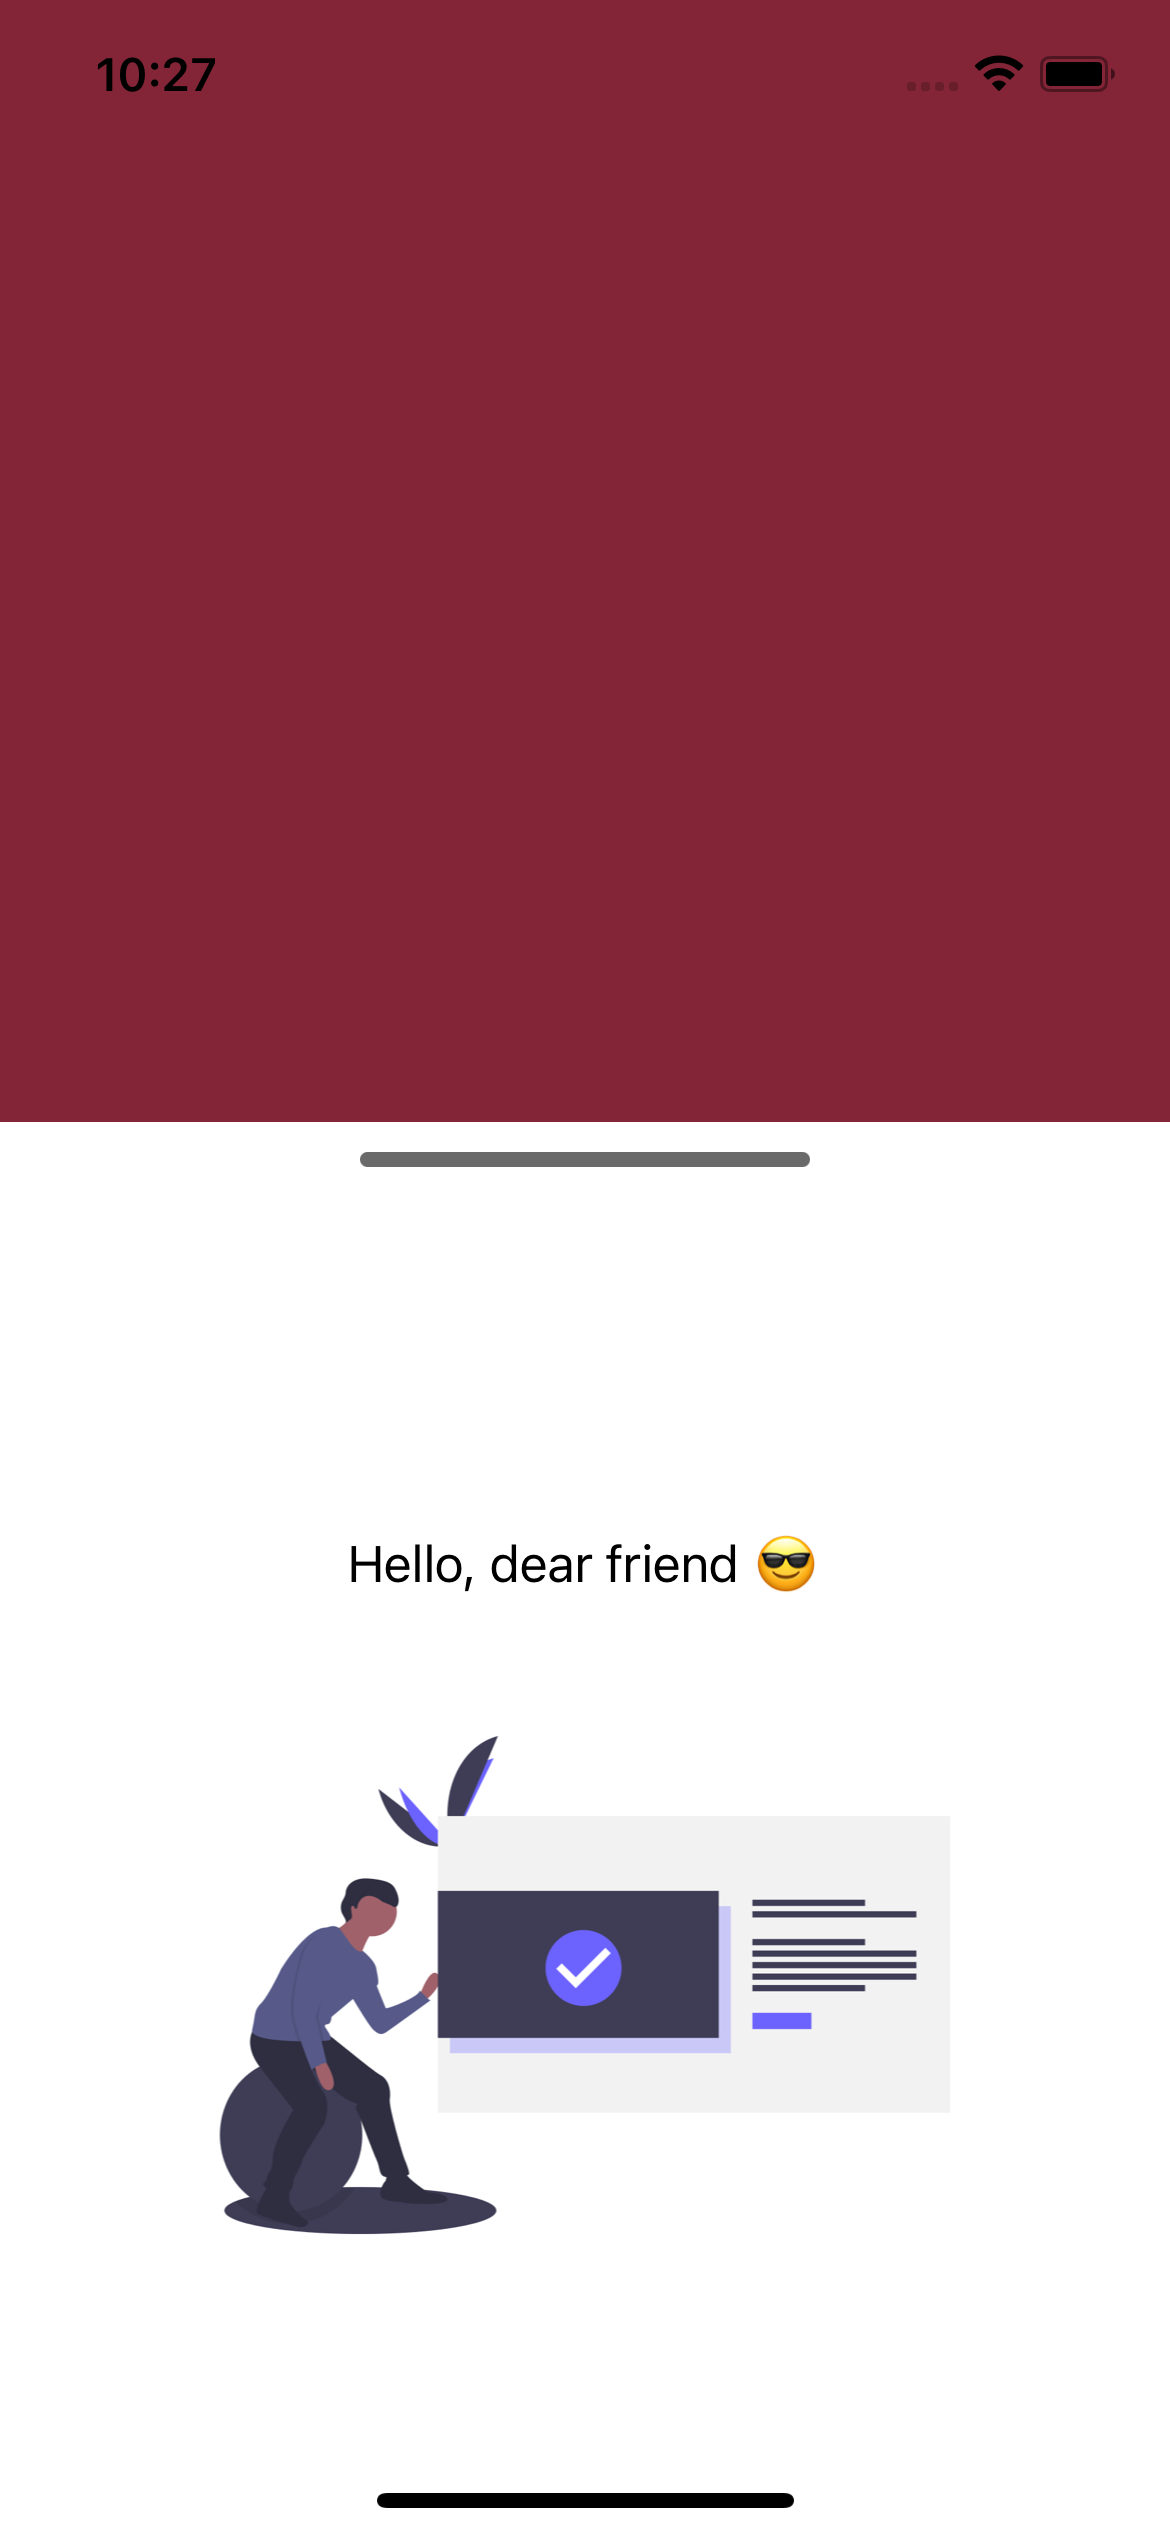
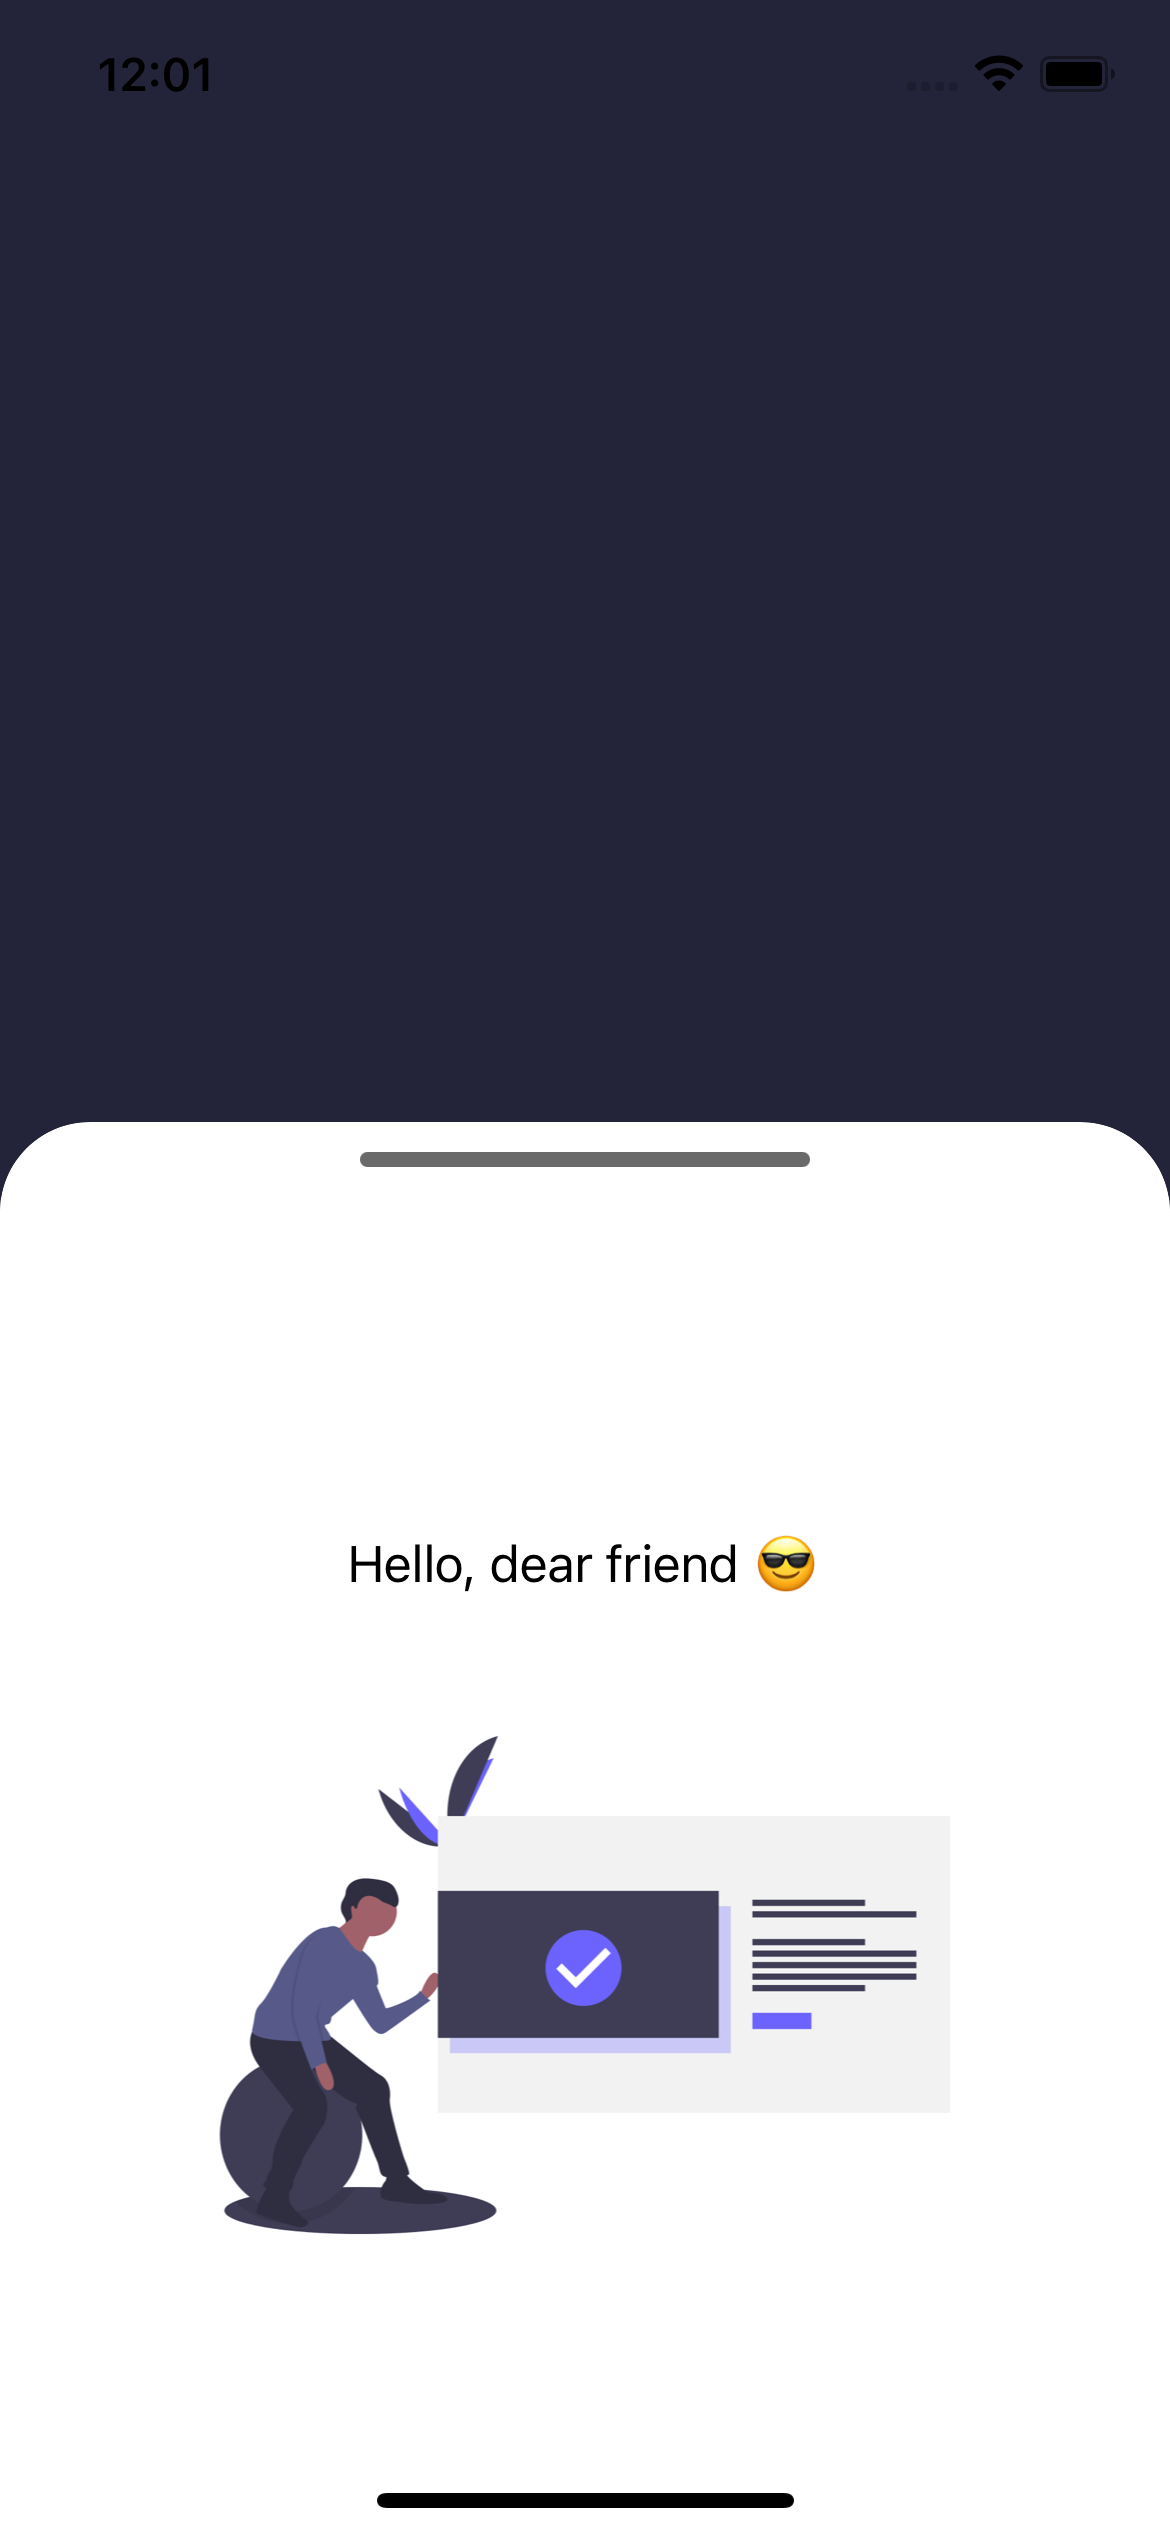
screen shots readMe

diff --git a/navigator/tab.js b/navigator/tab.js
@@ -49,11 +49,13 @@ const CostumTabBarButton = ({children , onPress, navigation}) => {
                 // backgroundColor: "transparent"
             },
             container: {
-                height: 470
+                height: 470,
+                borderTopLeftRadius: 30,
+                borderTopRightRadius: 30
             },
             draggableIcon: {
                 backgroundColor: "#6A6A6A",
-                width: 150
+                width: 150,
             }
             }}
             >

diff --git a/screens/MetricsScreen.js b/screens/MetricsScreen.js
@@ -5,7 +5,7 @@ import Styles from '../styles/costum'
 
 const Metrics = () => {
     return(
-        <View style={[Styles.container, {backgroundColor: "#F64668"}]}>
+        <View style={[Styles.container, {backgroundColor: "#41436A"}]}>
             <TouchableOpacity
                 style={Styles.buttonOne}
                 onPress={ () => alert('Metrics Screen !') }

diff --git a/screens/HomeScreen.js b/screens/HomeScreen.js
@@ -5,7 +5,7 @@ import Styles from '../styles/costum'
 
 const Home = () => {
     return(
-        <View style={[Styles.container, {backgroundColor: "#F64668"}]}>
+        <View style={[Styles.container, {backgroundColor: "#41436A"}]}>
             <TouchableOpacity
                 style={Styles.buttonOne}
                 onPress={ () => alert('Home Screen !') }
